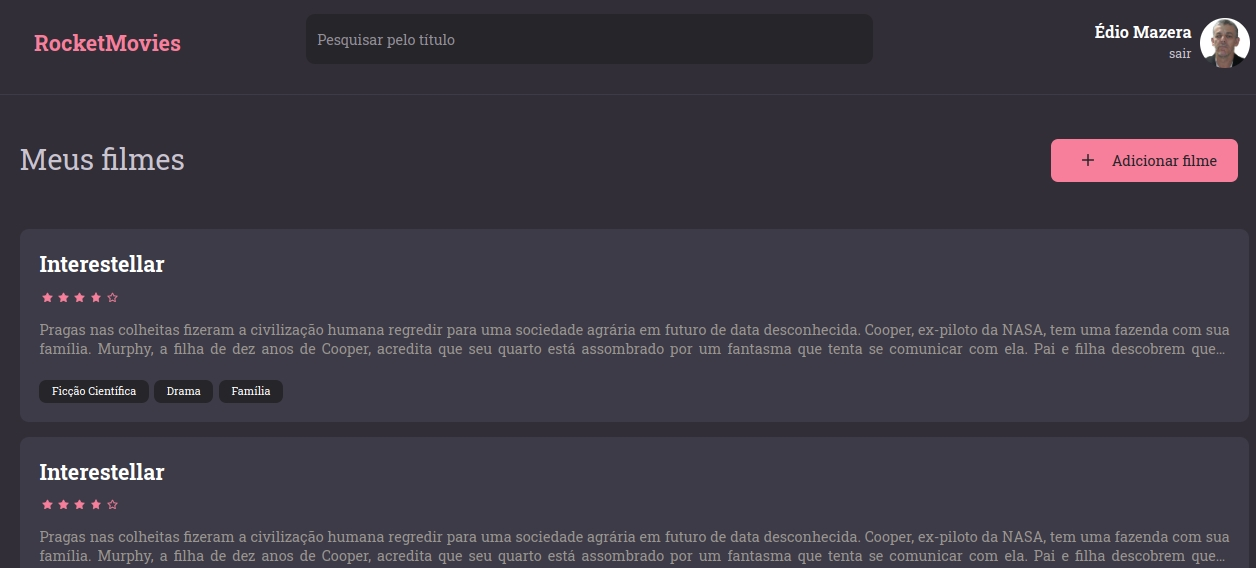
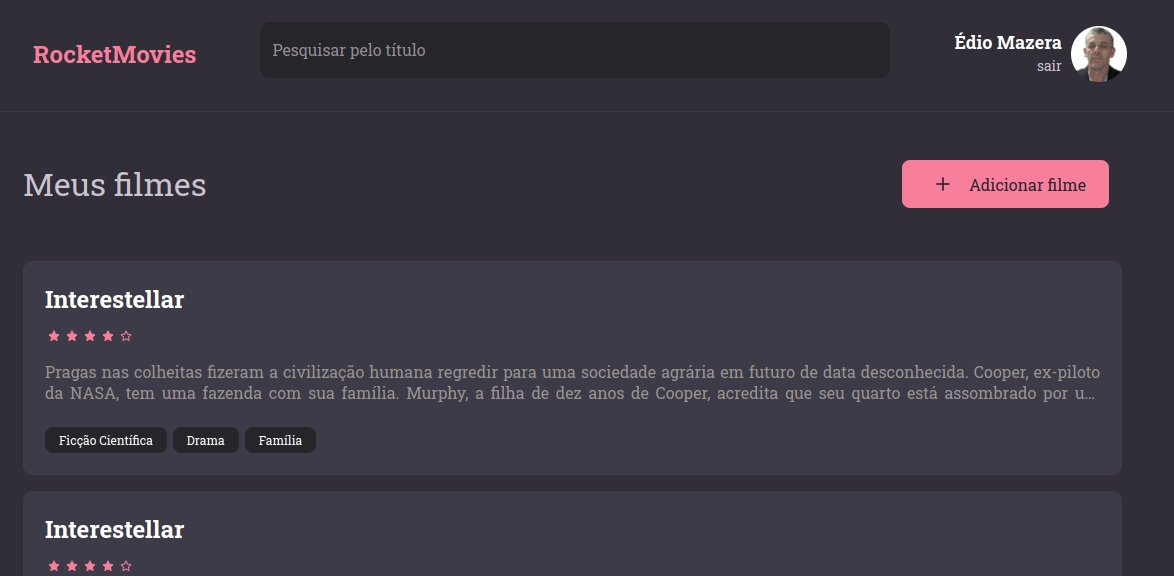
Novo Filme

diff --git a/src/pages/New/index.jsx b/src/pages/New/index.jsx
@@ -1,3 +1,4 @@
+import { FiArrowLeft } from "react-icons/fi";
 import { Container, Form } from "./styles";
 import { Header } from "../../components/Header";
 import { Input } from "../../components/Input";
@@ -14,23 +15,28 @@ export function New() {
       <main>
         <Form>
           <header>
-            <h1>Criar nota</h1>
-            <Link to="/">voltar</Link>
+            <h1>Novo filme</h1>
+            <Link to="/">
+              <FiArrowLeft />
+              voltar
+            </Link>
           </header>
-          <Input placeholder="Titulo" />
+          <div className="titulo">
+            <Input placeholder="Titulo" />
+            <Input placeholder="Sua nota (de 0 a 5)" />
+          </div>
           <Textarea placeholder="Observações" />
-          <Section title="Links úteis">
-            <NoteItem value="https://rocketseat.com.br" />
-            <NoteItem isNew placeholder="Novo link" />
-          </Section>
 
           <Section title="Marcadores">
             <div className="tags">
-              <NoteItem value="react" />
-              <NoteItem isNew placeholder="Nova tag" />
+              <NoteItem value="React" />
+              <NoteItem isNew placeholder="Novo marcador" />
             </div>
           </Section>
-          <Button title="Salvar" />
+          <div className="button">
+            <Button title="Excluir filme" />
+            <Button title="Salvar alterações" />
+          </div>
         </Form>
       </main>
     </Container>

diff --git a/src/pages/New/styles.js b/src/pages/New/styles.js
@@ -14,24 +14,53 @@ export const Container = styled.div`
     overflow-y: auto;
   }
   .tags {
+    background-color: ${({ theme }) => theme.COLORS.BACKGROUND_900};
+    border-radius: 8px;
     display: flex;
-    justify-content: space-between;
-    flex-wrap: wrap;
+    align-items: center;
+    justify-content: flex-start;
+    margin-bottom: 40px;
+    gap: 24px;
+    padding: 16px;
+    div:first-child {
+      background-color: ${({ theme }) => theme.COLORS.BACKGROUND_800};
+      width: 10%;
+    }
+    div:nth-child(2) {
+      width: 17%;
+    }
   }
 `;
 
 export const Form = styled.form`
-  max-width: 550px;
+  max-width: 1113px;
   margin: 38px auto;
   > header {
     display: flex;
-    align-items: center;
-    justify-content: space-between;
-
-    margin-bottom: 36px;
+    align-items: flex-start;
+    flex-direction: column-reverse;
+    margin-bottom: 40px;
+    > h1 {
+      margin-top: 24px;
+    }
     > a {
+      display: flex;
       font-size: 20px;
-      color: ${({ theme }) => theme.COLORS.GRAY_100};
+      color: ${({ theme }) => theme.COLORS.SALMON};
+      gap: 8px;
+    }
+  }
+  .titulo {
+    display: flex;
+    gap: 56px;
+    margin-bottom: 40px;
+  }
+  .button {
+    display: flex;
+    gap: 40px;
+    > button:first-child {
+      color: ${({ theme }) => theme.COLORS.SALMON};
+      background-color: ${({ theme }) => theme.COLORS.BACKGROUND_900};
     }
   }
 `;

diff --git a/src/components/Header/styles.js b/src/components/Header/styles.js
@@ -12,7 +12,8 @@ export const Container = styled.header`
   border-bottom-color: ${({ theme }) => theme.COLORS.BACKGROUND_700};
 
   display: flex;
-  justify-content: space-between;
+  /* justify-content: space-between; */
+  justify-content: center;
   padding: 0 80px;
   gap: 64px;
   > h2 {
@@ -32,11 +33,11 @@ export const Profile = styled(Link)`
     border-radius: 50%;
   }
   > div {
-    width: 198px;
+    /* width: 198px; */
+    width: auto;
     display: flex;
     flex-direction: column;
     align-items: flex-end;
-    margin-left: 16px;
     line-height: 24px;
     span {
       font-size: 14px;

diff --git a/src/components/NoteItem/styles.js b/src/components/NoteItem/styles.js
@@ -13,13 +13,15 @@ export const Container = styled.div`
   margin-bottom: 8px;
   border-radius: 10px;
   padding-right: 16px;
+  width: auto;
 
   > button {
     border: none;
     background: none;
+    font-size: 22px;
   }
   .button-delete {
-    color: ${({ theme }) => theme.COLORS.RED};
+    color: ${({ theme }) => theme.COLORS.SALMON};
   }
 
   .button-add {

diff --git a/src/pages/Home/styles.js b/src/pages/Home/styles.js
@@ -15,7 +15,7 @@ export const Container = styled.div`
 
 export const Content = styled.div`
   grid-area: content;
-  padding: 0 64px;
+  padding: 0 123px;
   overflow-y: auto;
 `;
 

diff --git a/README.md b/README.md
@@ -38,3 +38,7 @@
 - Meus Filmes
 
   <img src="./img/movie04.jpg">
+
+- Novo Filme
+
+  <img src="./img/movie05.jpg">
